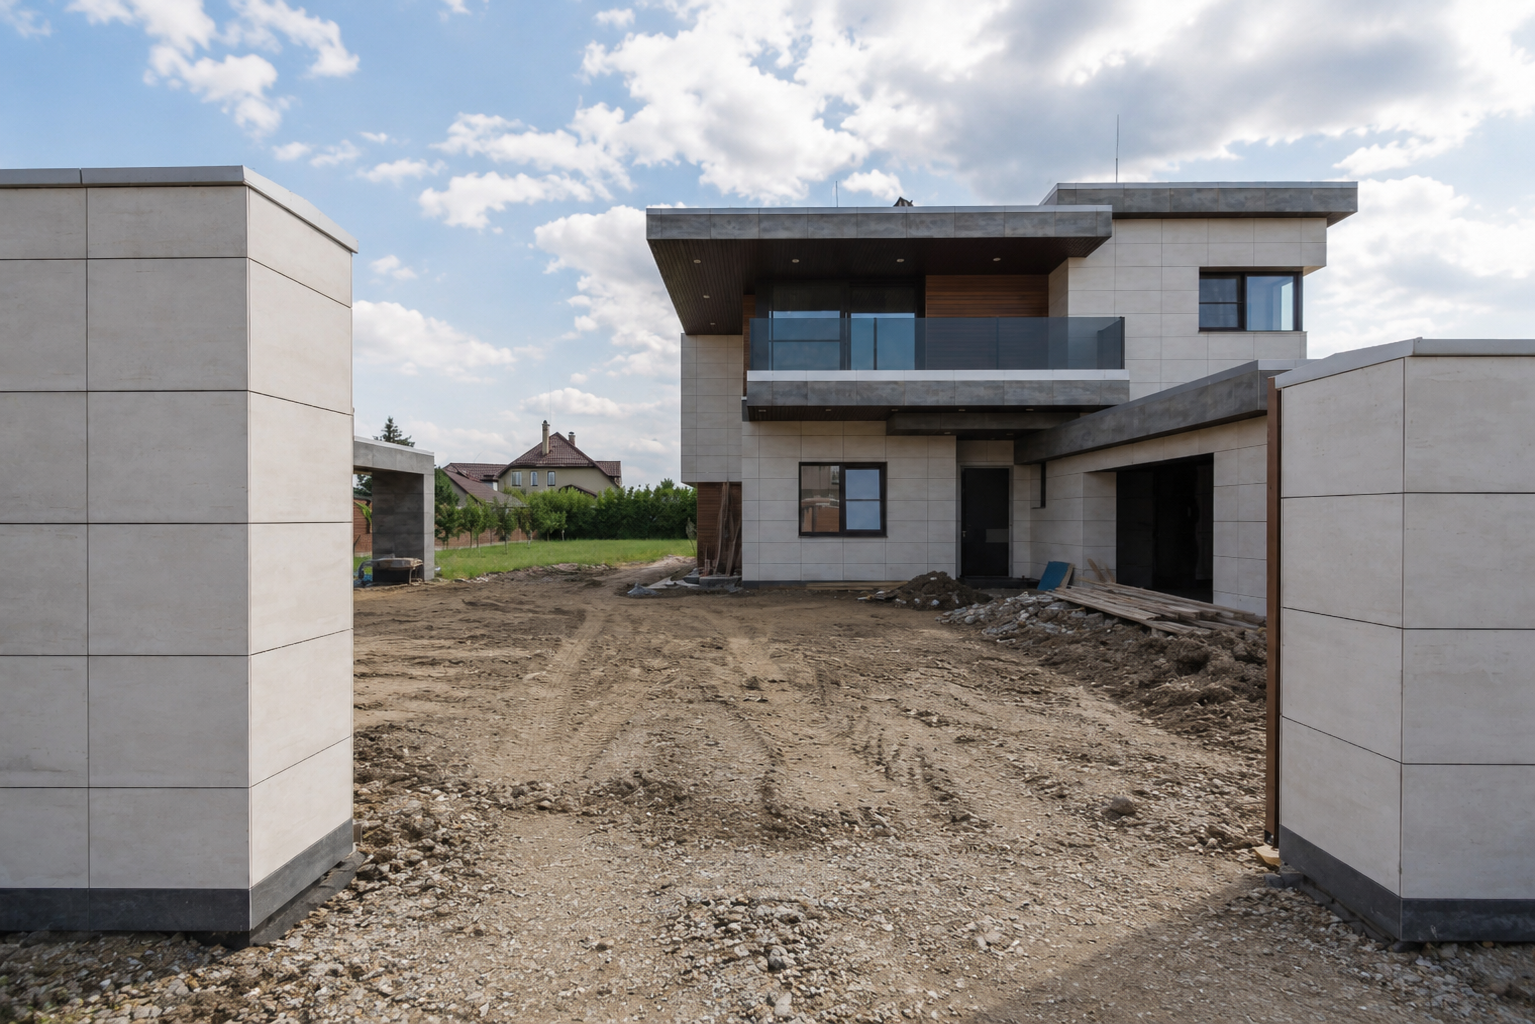
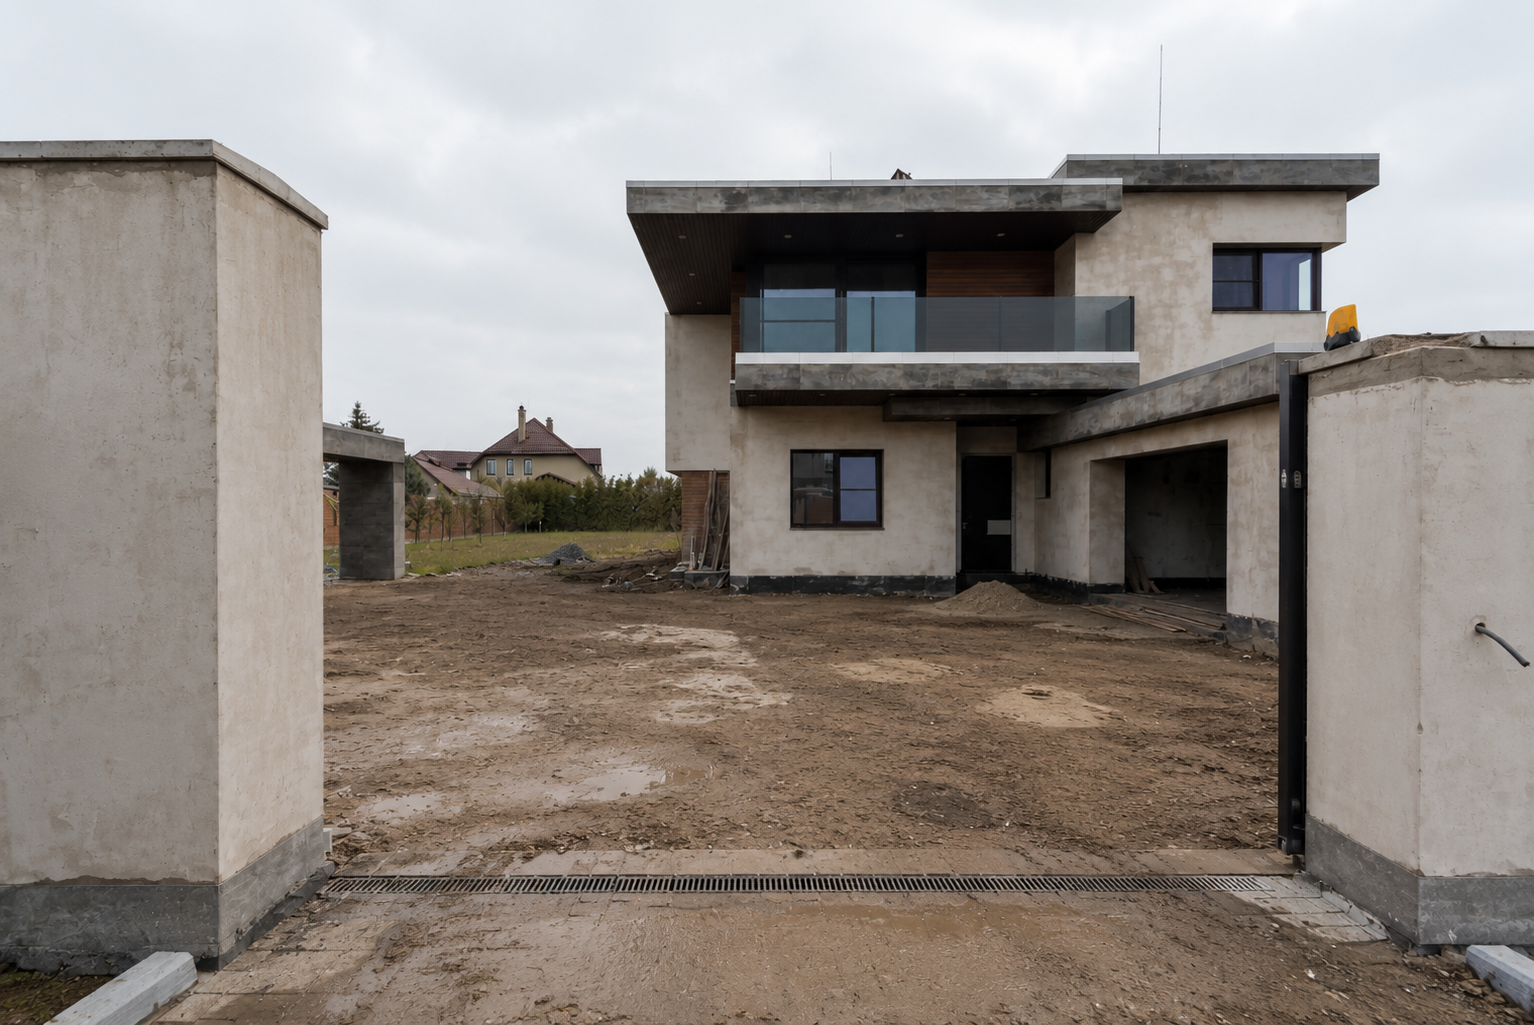
update project

diff --git a/src/routes/index.tsx b/src/routes/index.tsx
@@ -562,6 +562,15 @@ function Projects() {
             );
           })}
         </div>
+
+        <div className="mt-10 flex justify-center">
+          <Link
+            to="/projects"
+            className="inline-flex items-center gap-2 rounded-full bg-primary px-7 py-3.5 text-sm font-semibold text-primary-foreground shadow-soft transition hover:brightness-110"
+          >
+            View All Projects <ArrowRight className="h-4 w-4" />
+          </Link>
+        </div>
       </div>
     </section>
   );
